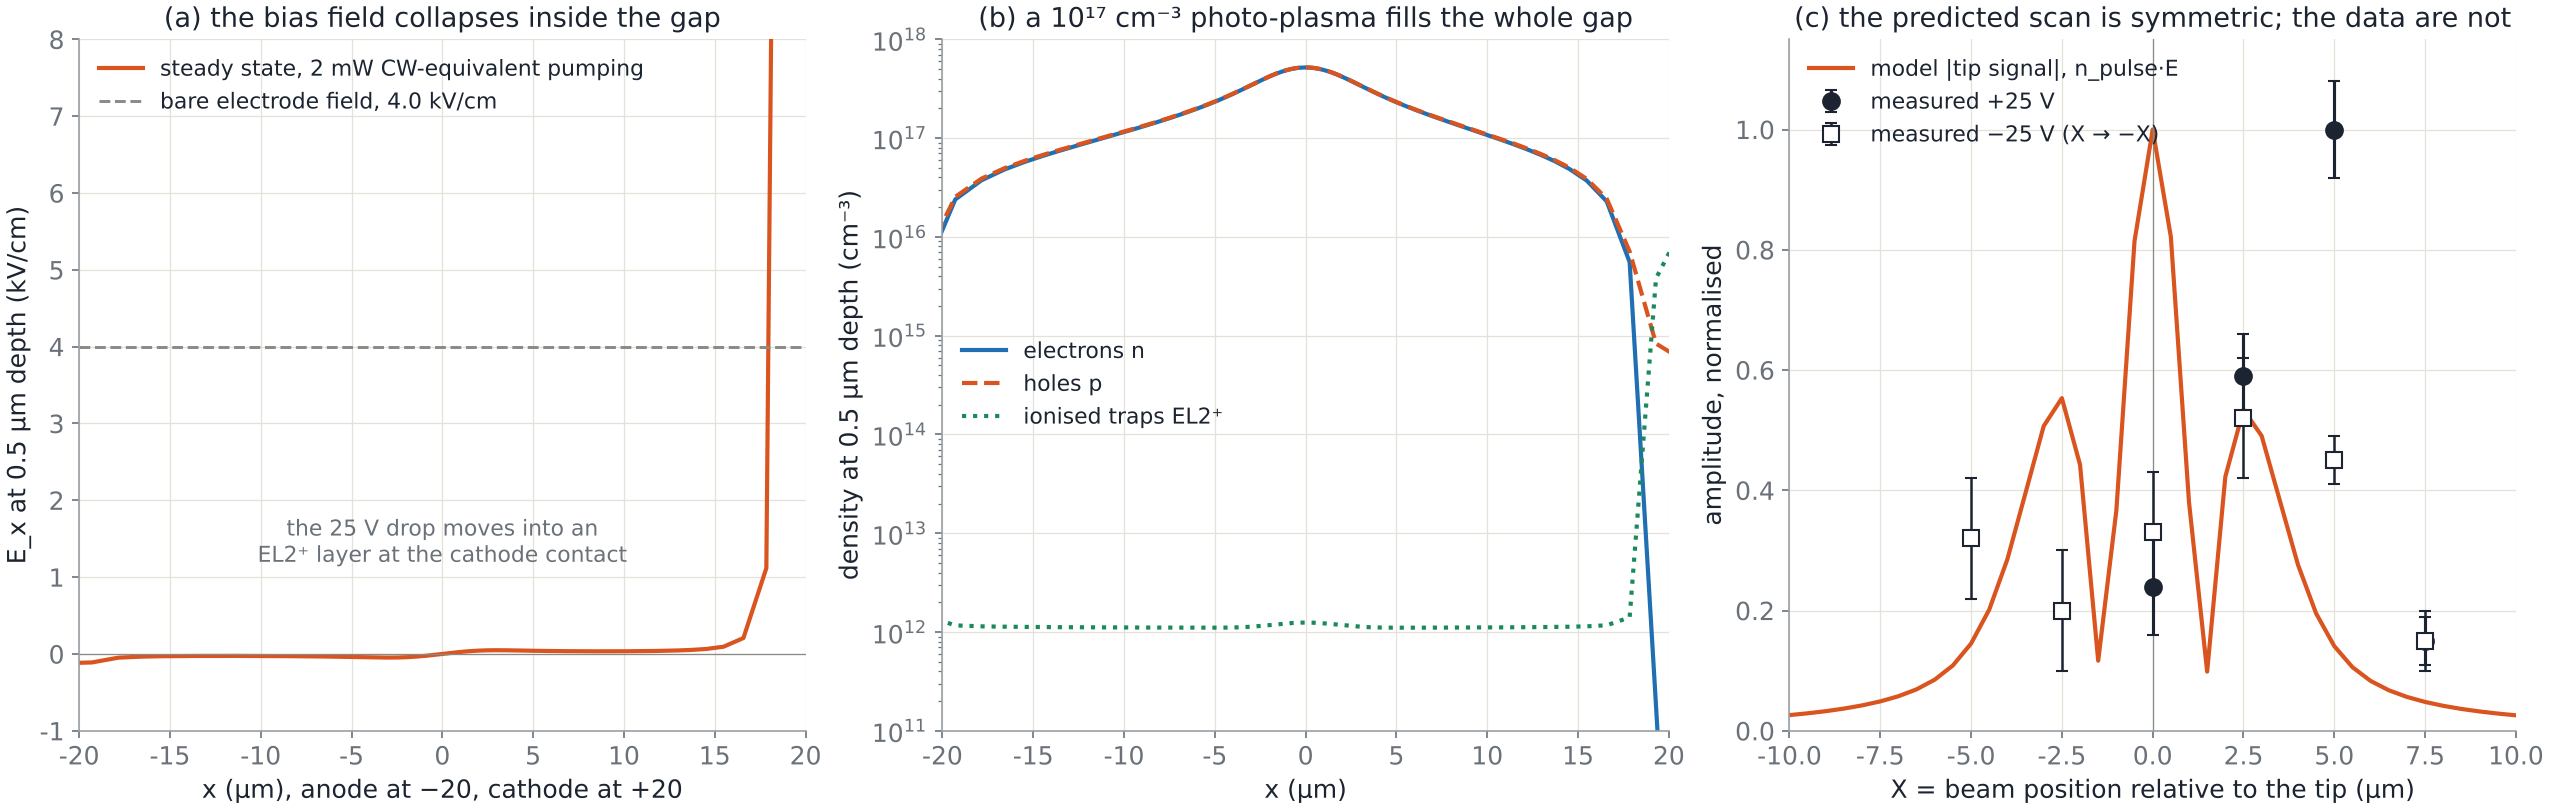
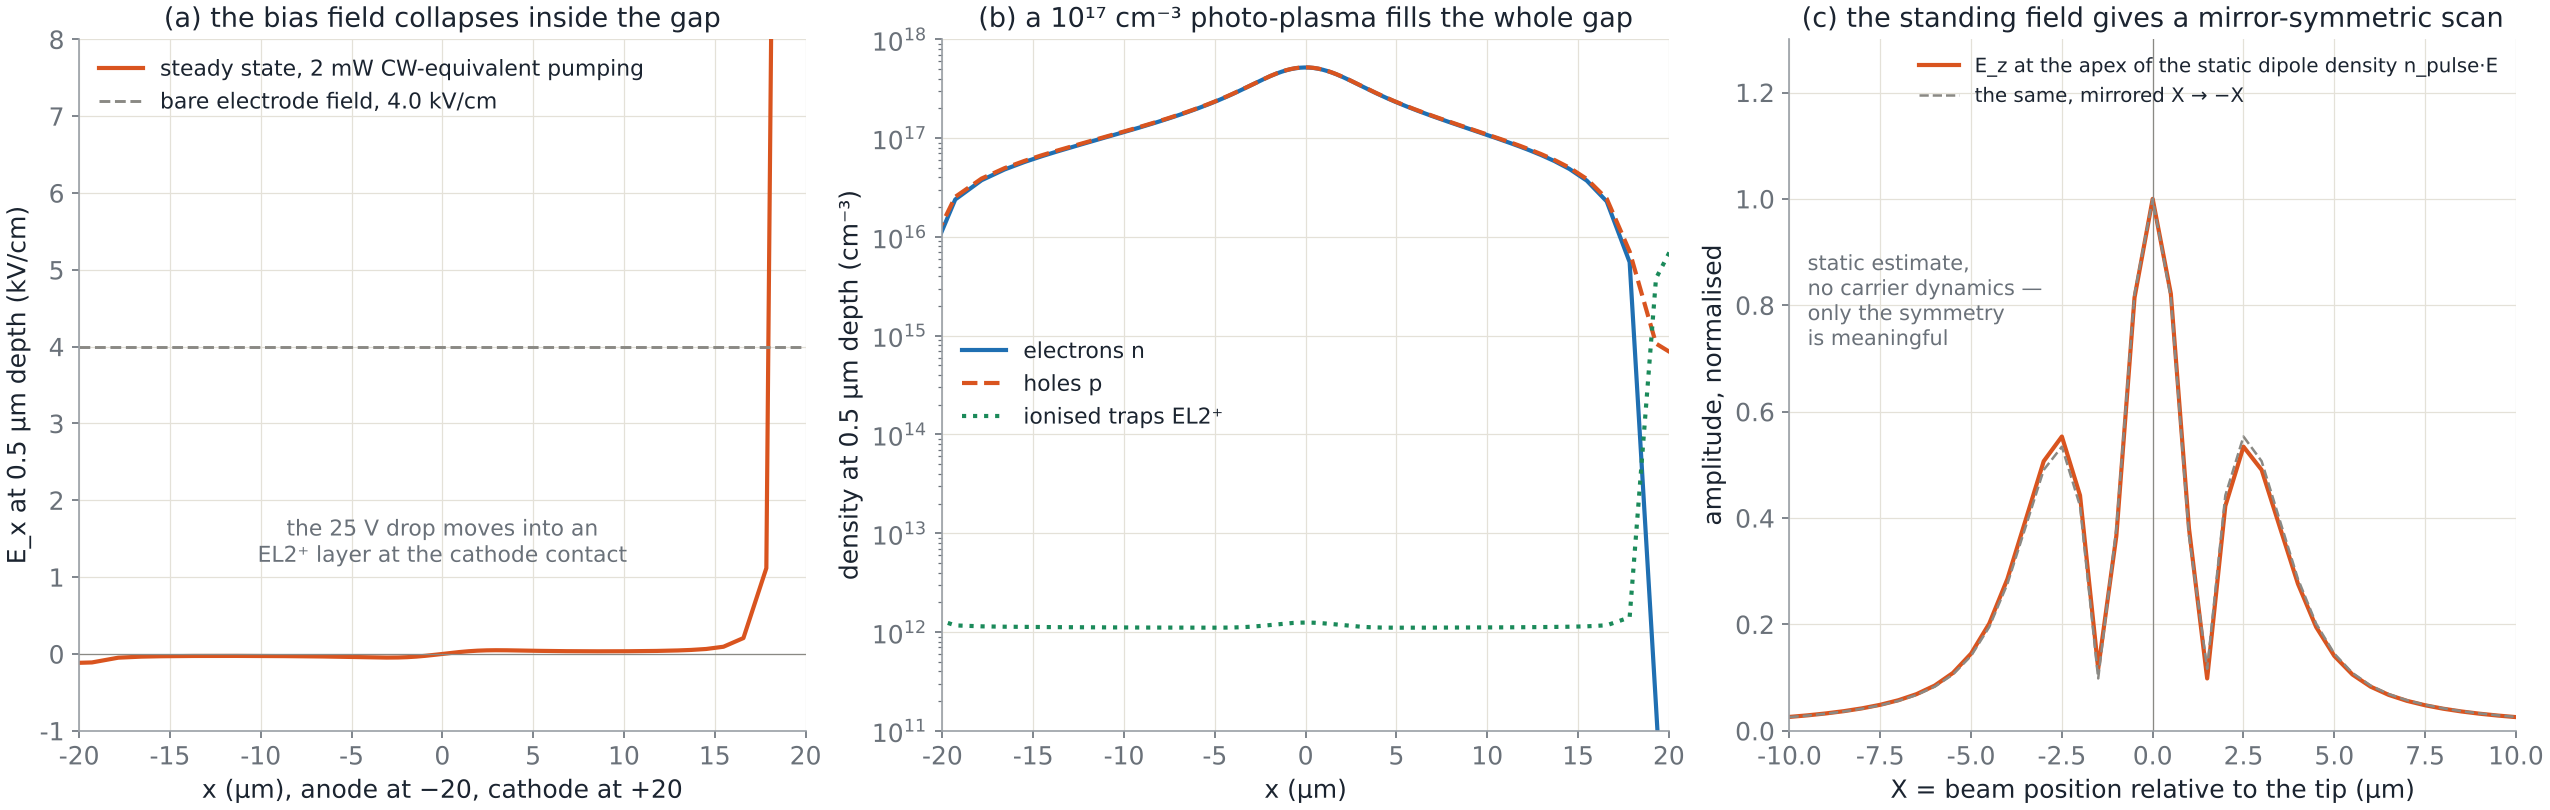
Steady-state figure: drop measured points from panel (c), show only the model's mirror symmetry
Claude-Session: https://claude.ai/code/session_01FN7MpsobDfD5Gqf5WEx6oe

diff --git a/scripts/fig_slides.py b/scripts/fig_slides.py
@@ -429,11 +429,12 @@ def fig_steady():
     ax.set_xlim(-20, 20); ax.set_ylim(1e11, 1e18); ax.set_xlabel("x (µm)"); ax.set_ylabel("density at 0.5 µm depth (cm⁻³)")
     ax.set_title("(b) a 10¹⁷ cm⁻³ photo-plasma fills the whole gap"); ax.legend(loc="center left")
     ax = axs[2]
-    ax.plot(Xs, S / S.max(), color=C["orange"], lw=2, label="model |tip signal|, n_pulse·E")
-    plot_measured(ax)
-    ax.axvline(0, color=C["grey"], lw=0.6); ax.set_xlim(-10, 10); ax.set_ylim(0, 1.15)
+    ax.plot(Xs, S / S.max(), color=C["orange"], lw=2, label="E_z at the apex of the static dipole density n_pulse·E")
+    ax.plot(-Xs, S / S.max(), color=C["grey"], lw=1.2, ls="--", label="the same, mirrored X → −X")
+    ax.axvline(0, color=C["grey"], lw=0.6); ax.set_xlim(-10, 10); ax.set_ylim(0, 1.3)
     ax.set_xlabel("X = beam position relative to the tip (µm)"); ax.set_ylabel("amplitude, normalised")
-    ax.set_title("(c) the predicted scan is symmetric; the data are not"); ax.legend(loc="upper left")
+    ax.set_title("(c) the standing field gives a mirror-symmetric scan"); ax.legend(loc="upper right", fontsize=9.5)
+    ax.text(-9.5, 0.9, "static estimate,\nno carrier dynamics —\nonly the symmetry\nis meaningful", ha="left", va="top", fontsize=10, color=C["muted"])
     fig.savefig(os.path.join(OUT, "sim_steady_state.png"), dpi=150)
     plt.close(fig)
 
